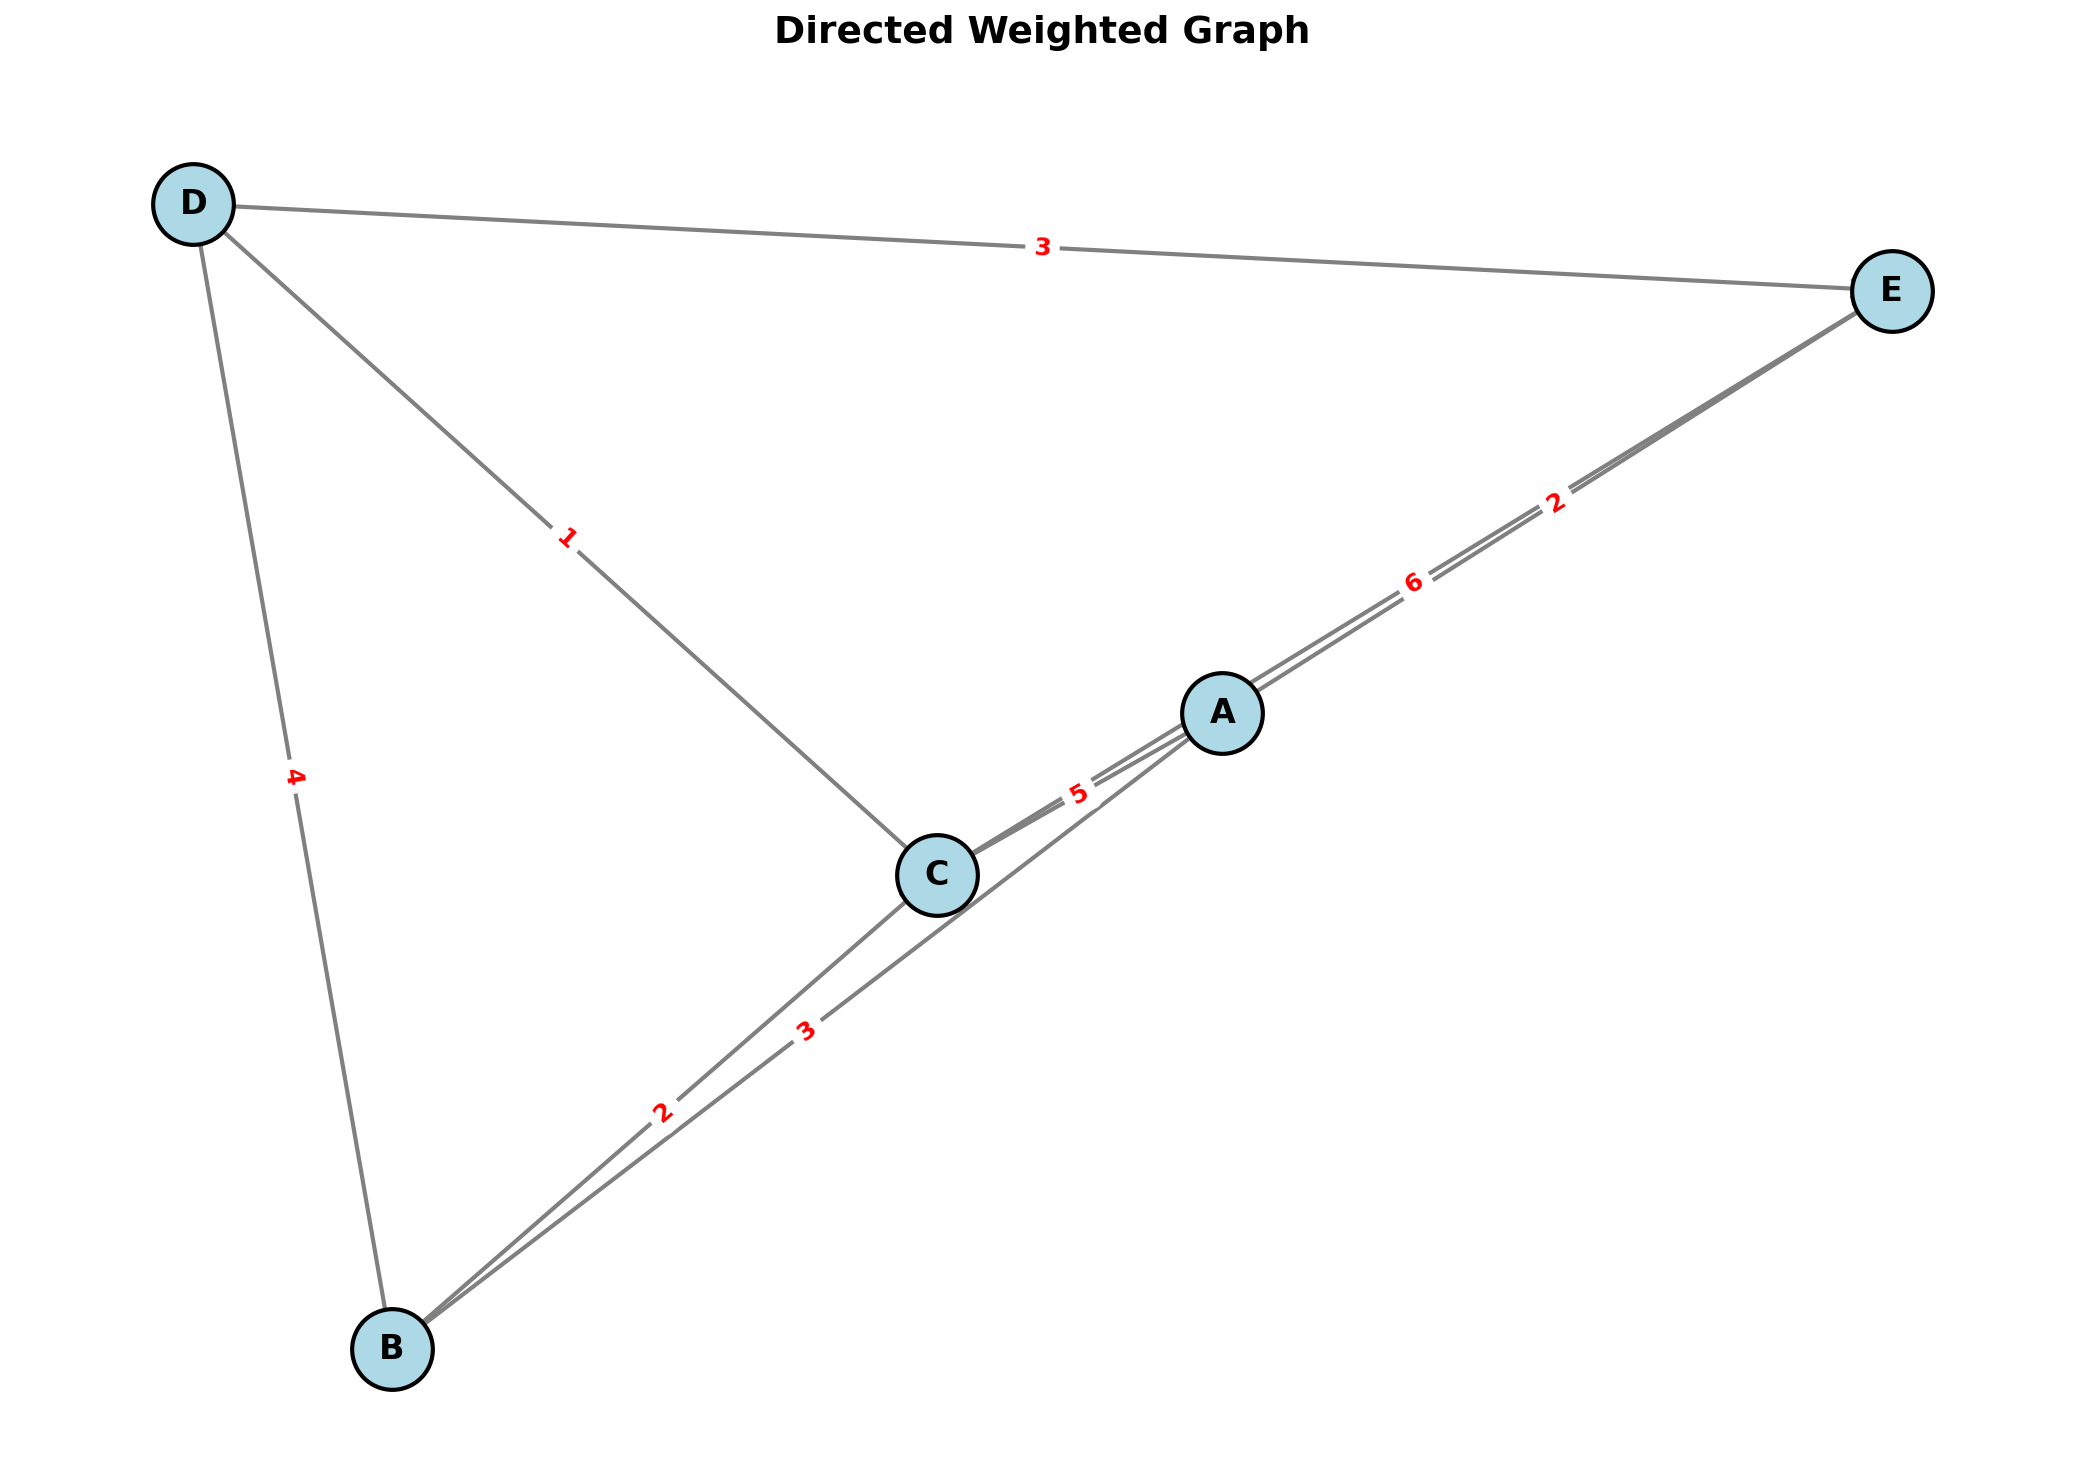
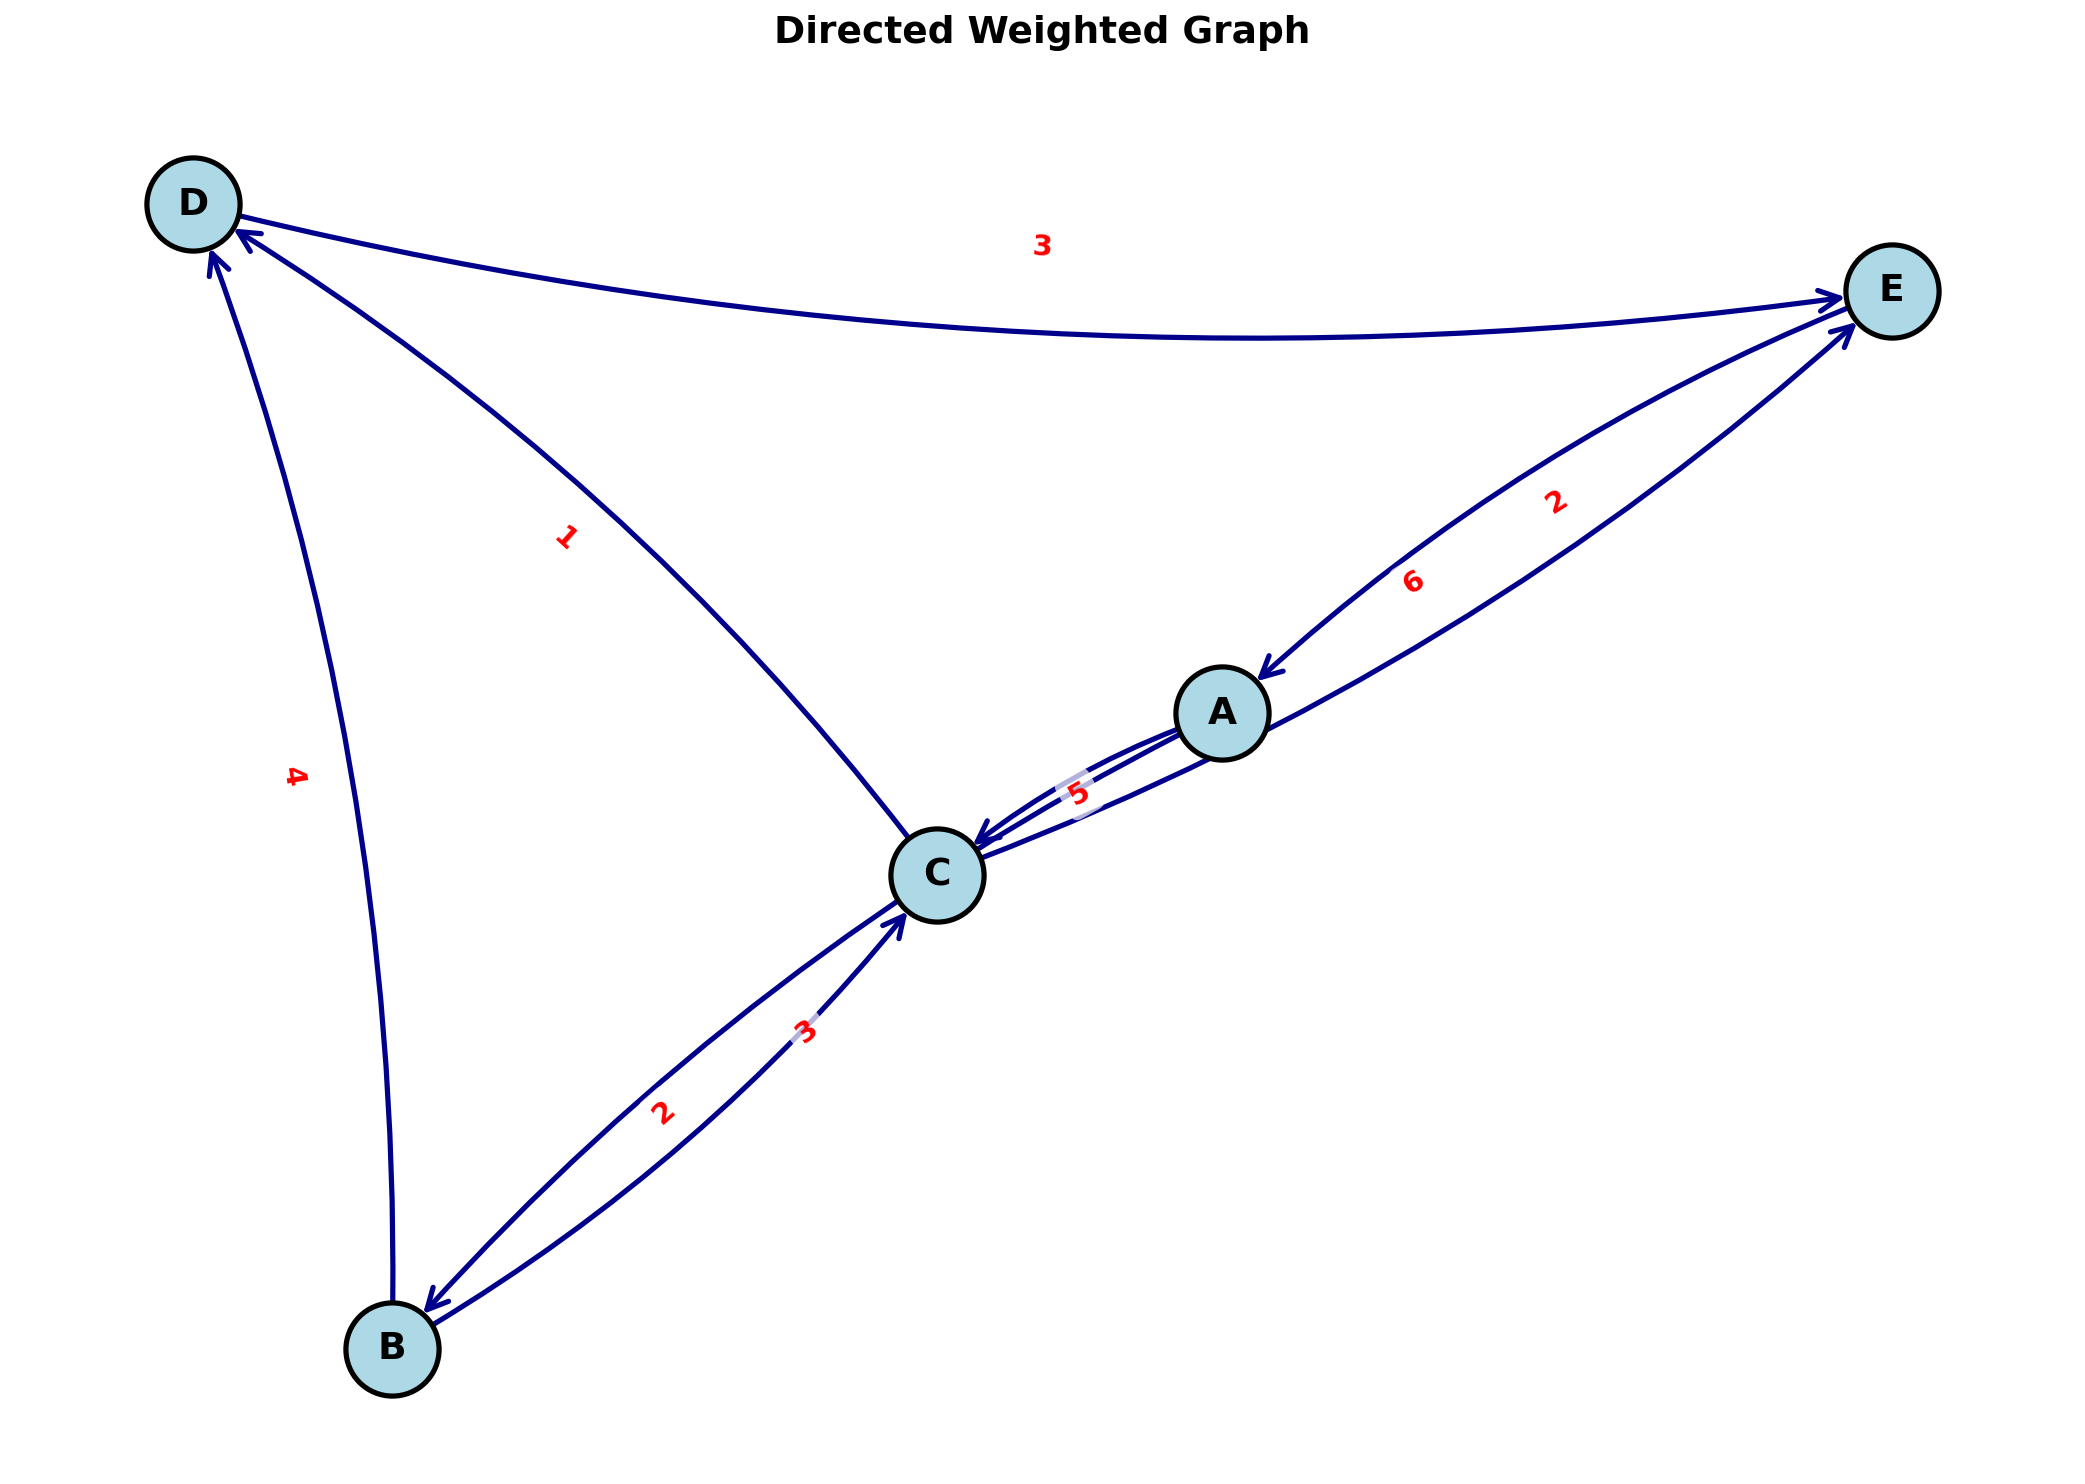
Improve directed graph visualization with clearer arrows and curved edges

diff --git a/directed_graph_visualization/directed_weighted_graph.py b/directed_graph_visualization/directed_weighted_graph.py
@@ -105,7 +105,7 @@ class DirectedWeightedGraph:
         return inv_adj_list
     
     def visualize_directed_graph(self, output_file: str):
-        """Visualize the directed weighted graph."""
+        """Visualize the directed weighted graph with clear arrows and curved edges."""
         plt.figure(figsize=(14, 10))
         
         # Use spring layout for better visualization
@@ -114,30 +114,39 @@ class DirectedWeightedGraph:
         # Draw nodes
         nx.draw_networkx_nodes(self.graph, pos, 
                               node_color='lightblue',
-                              node_size=1500,
+                              node_size=2000,
                               edgecolors='black',
-                              linewidths=2)
+                              linewidths=2.5)
         
-        # Draw edges with arrows
+        # Draw edges with curved arrows for better visibility
+        # Use connectionstyle to create curved edges
         nx.draw_networkx_edges(self.graph, pos,
-                              width=2,
-                              edge_color='gray',
+                              width=2.5,
+                              edge_color='darkblue',
                               arrows=True,
-                              arrowsize=20,
-                              arrowstyle='->')
+                              arrowsize=25,
+                              arrowstyle='->',
+                              connectionstyle='arc3,rad=0.1',  # Curved edges
+                              node_size=2000,
+                              min_source_margin=15,
+                              min_target_margin=15)
         
         # Draw labels
         nx.draw_networkx_labels(self.graph, pos,
-                               font_size=16,
+                               font_size=18,
                                font_weight='bold')
         
-        # Draw edge labels (weights)
+        # Draw edge labels (weights) with better positioning
         edge_labels = nx.get_edge_attributes(self.graph, 'weight')
         nx.draw_networkx_edge_labels(self.graph, pos,
                                      edge_labels,
-                                     font_size=12,
+                                     font_size=14,
                                      font_color='red',
-                                     font_weight='bold')
+                                     font_weight='bold',
+                                     bbox=dict(boxstyle='round,pad=0.3', 
+                                             facecolor='white', 
+                                             edgecolor='none',
+                                             alpha=0.7))
         
         plt.title("Directed Weighted Graph", fontsize=18, fontweight='bold', pad=20)
         plt.axis('off')
